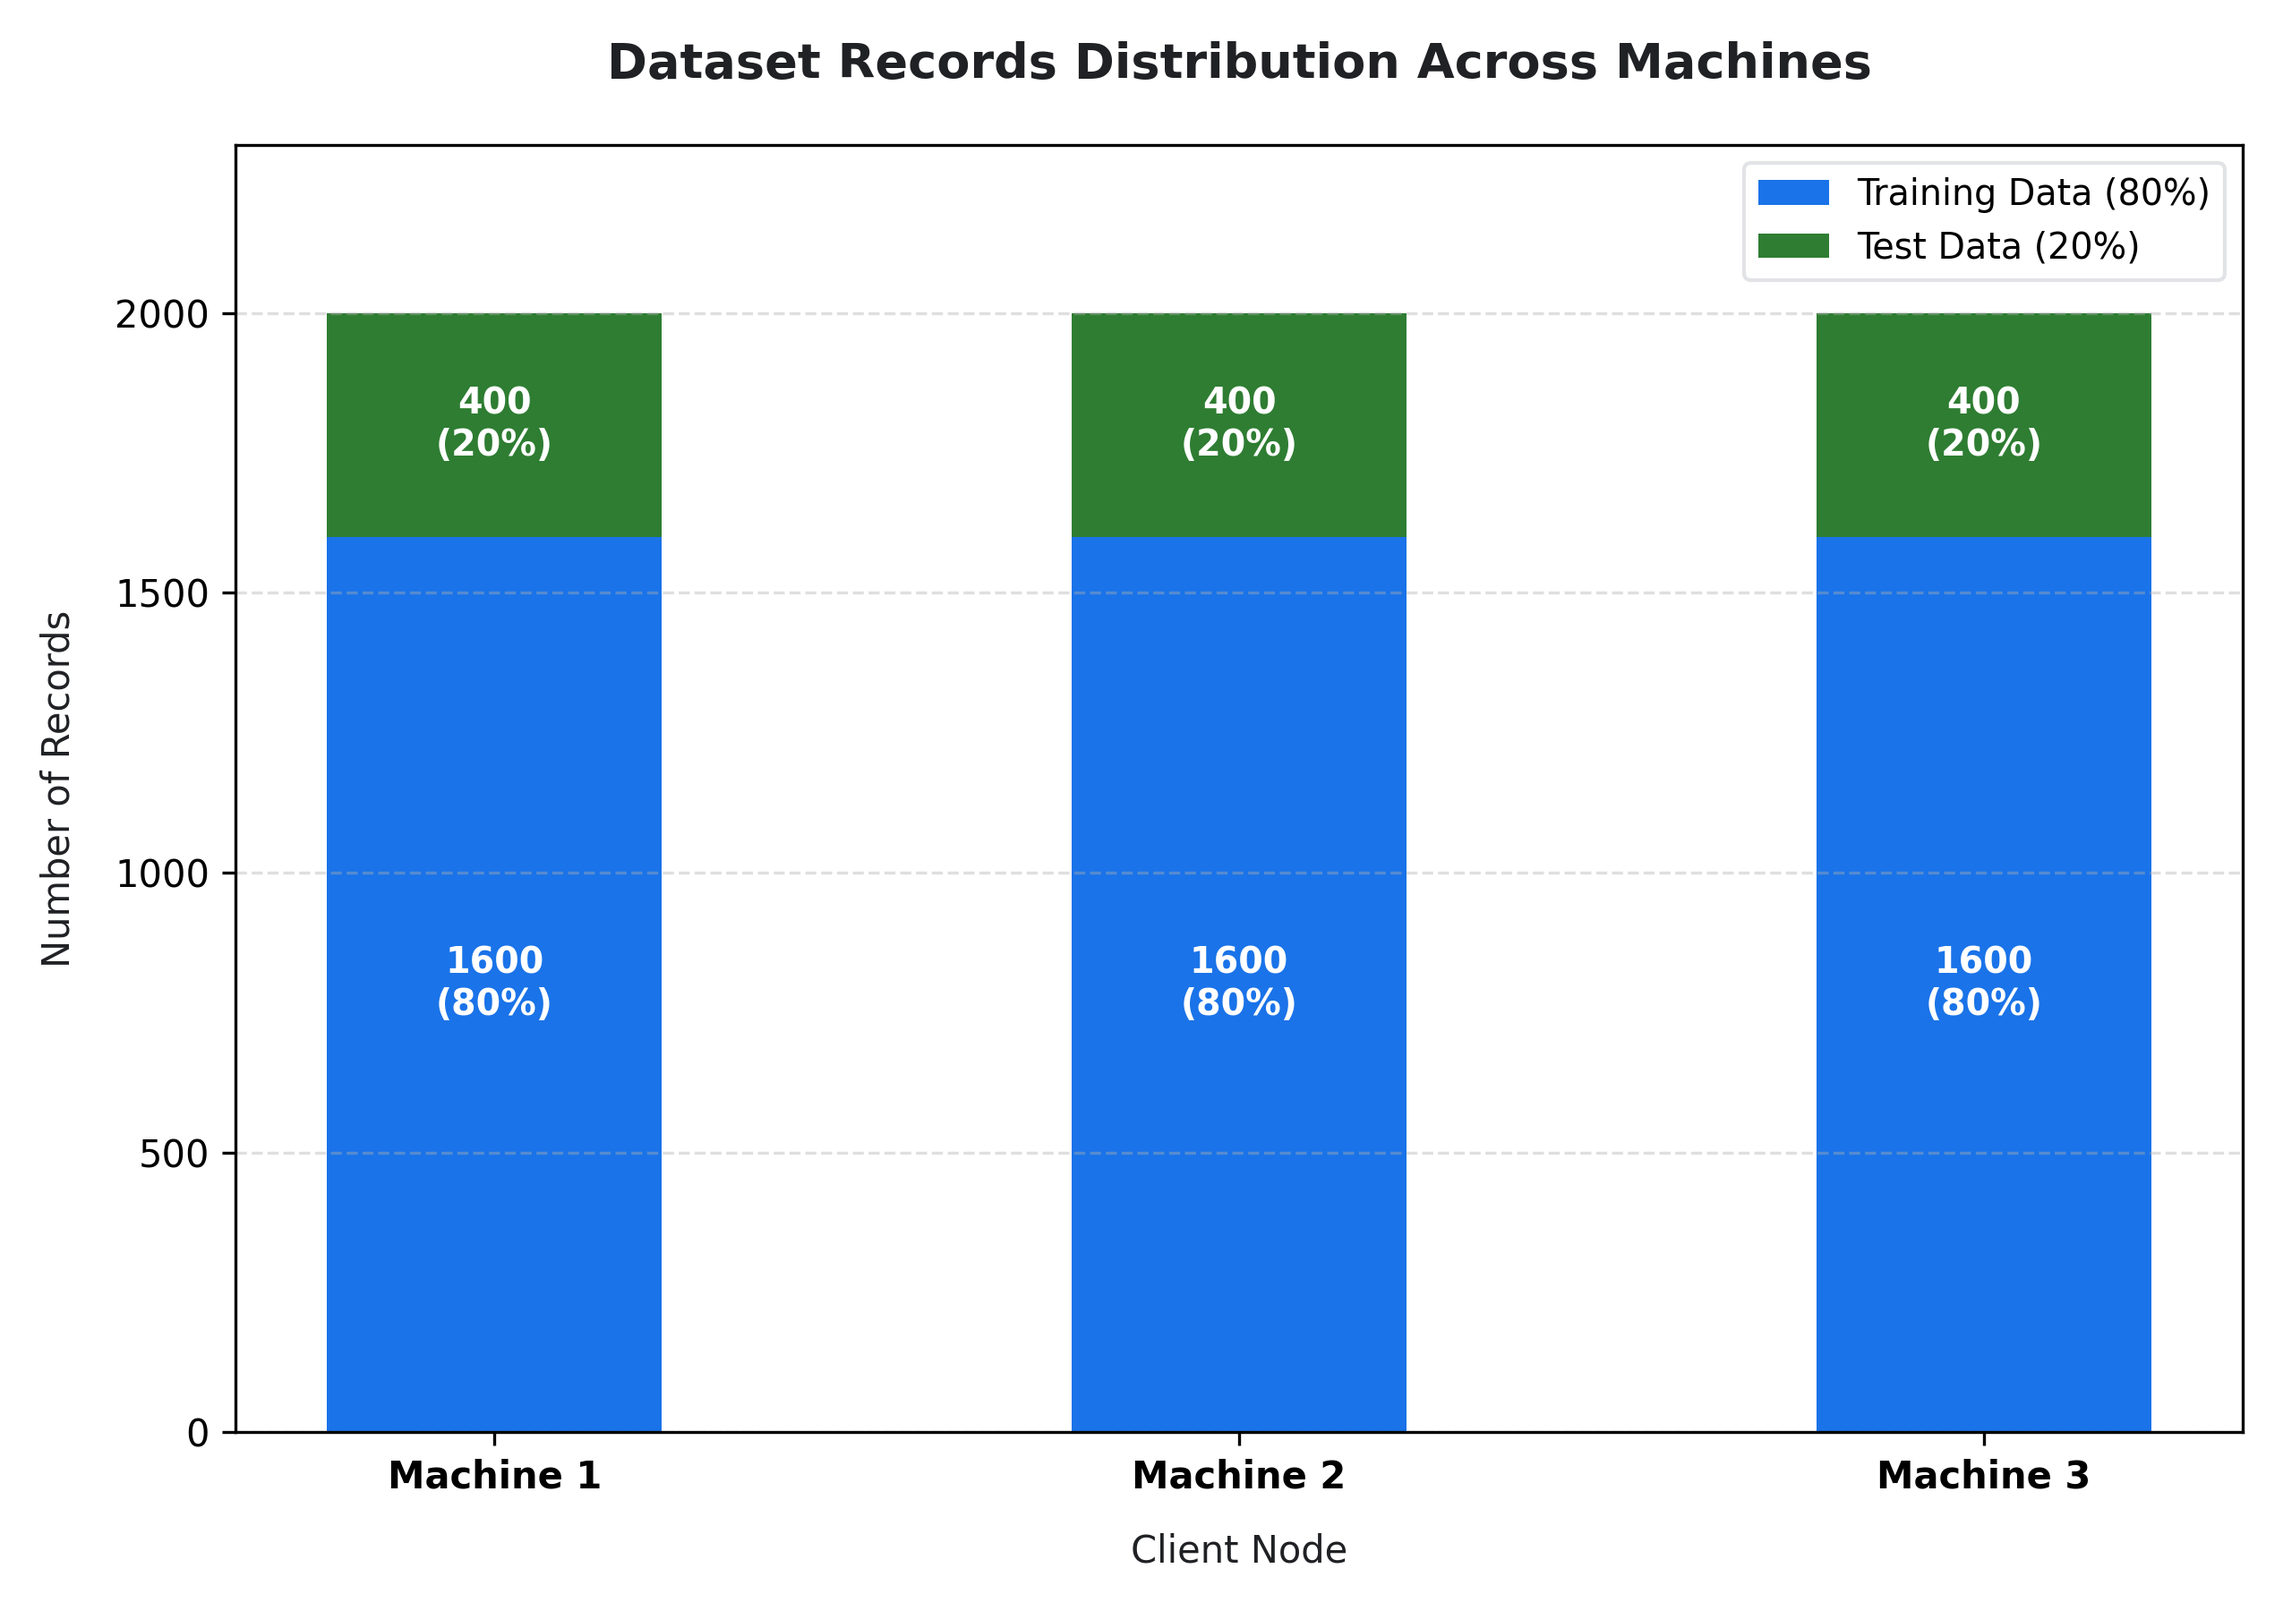
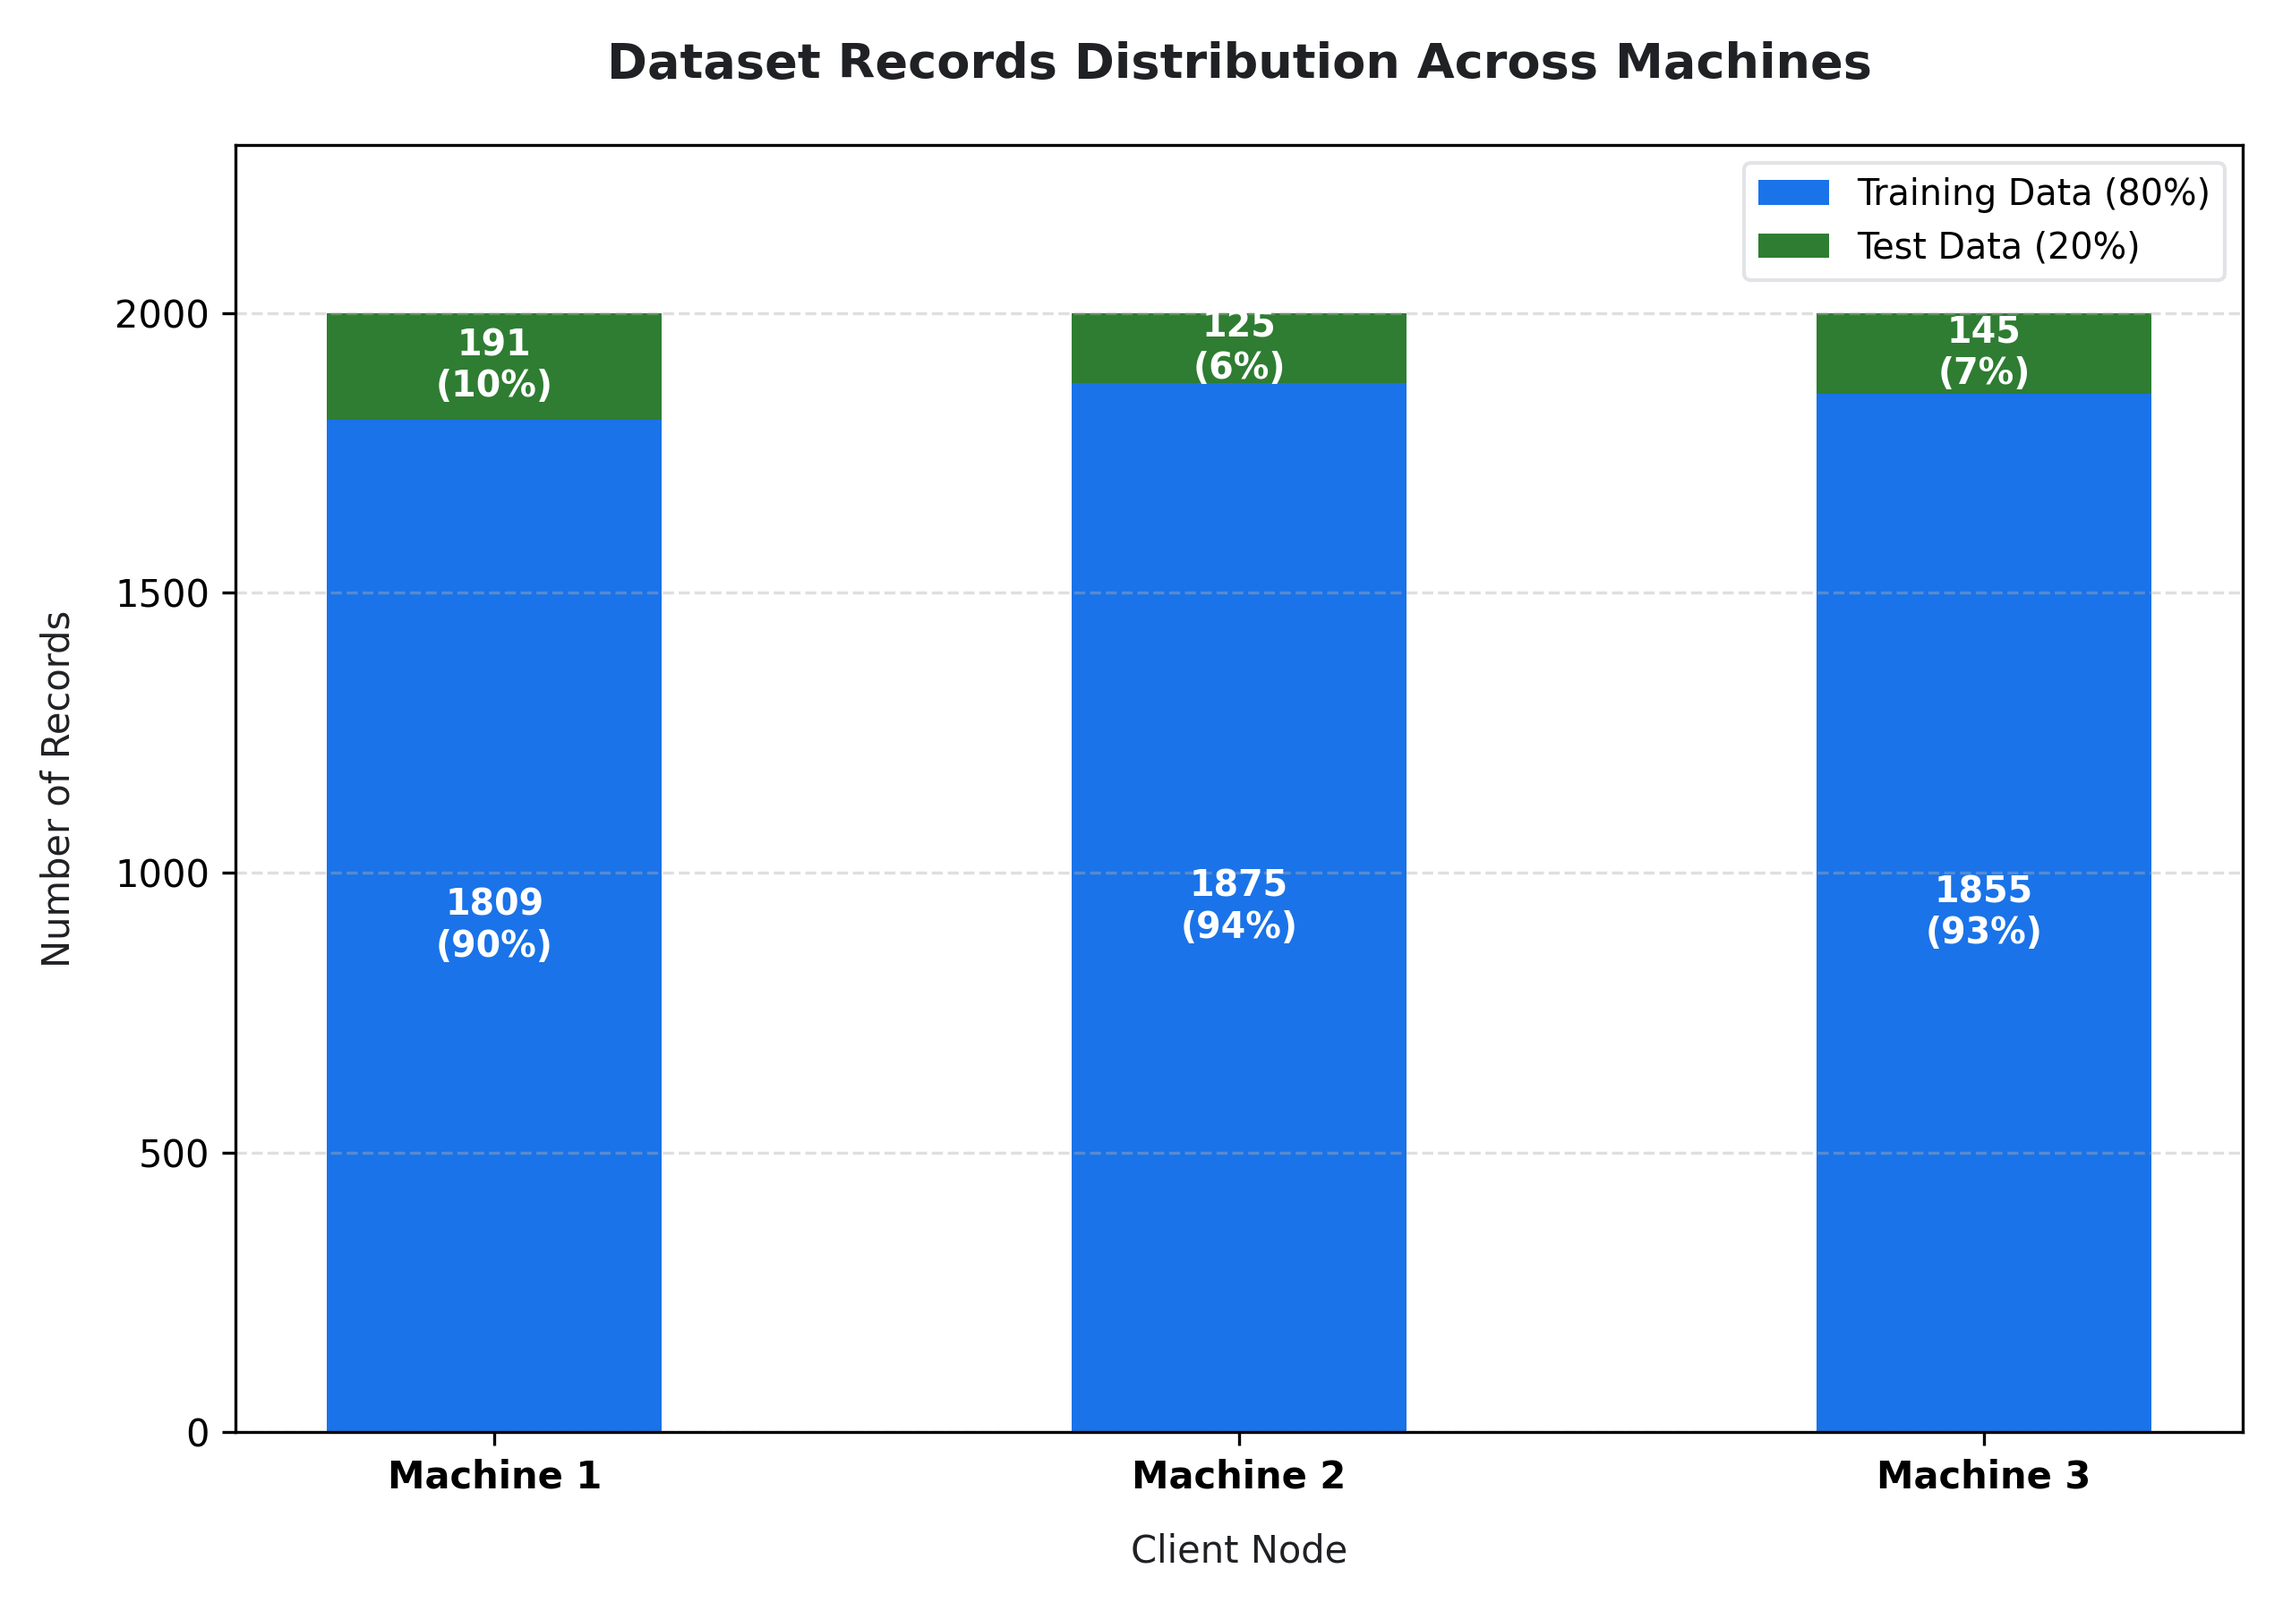
Implement Synthetic-Aware Leakage-Safe Data Split using is_synthetic flag across all clients (0% synthetic-to-test data leakage, 96.96%-97.41% test accuracy on 100% real unseen records)

diff --git a/machine1.py b/machine1.py
@@ -58,14 +58,36 @@ class Machine1:
             'hr_stress_ratio', 'spo2_deficit', 'bp_diff', 'vital_risk_index'
         ]
         
-        X = df[feature_cols].values
-        y = self.le.transform(df["Daily_Health_Condition"].values)
+        # BUG FIX: Synthetic-Aware Leakage-Safe Data Split
+        # 1. Separate real records (is_synthetic == False) and synthetic records (is_synthetic == True)
+        if 'is_synthetic' in df.columns:
+            real_df  = df[df['is_synthetic'] == False].reset_index(drop=True)
+            synth_df = df[df['is_synthetic'] == True].reset_index(drop=True)
+        else:
+            real_df  = df
+            synth_df = pd.DataFrame()
 
-        # Standard 80/20 Train-Test Split (1600 train, 400 test)
-        self.X_train_raw, self.X_test_raw, self.y_train, self.y_test = train_test_split(
-            X, y, test_size=0.20, random_state=SEED, stratify=y
+        X_real = real_df[feature_cols].values
+        y_real = self.le.transform(real_df["Daily_Health_Condition"].values)
+
+        # 2. Perform train/test split ONLY on real records so X_test contains 100% real unseen data
+        X_tr_real, X_te_real, y_tr_real, y_te_real = train_test_split(
+            X_real, y_real, test_size=0.20, random_state=SEED, stratify=y_real
         )
-        self.n_samples = len(self.X_train_raw)
+
+        # 3. Concatenate synthetic/SMOTE oversampled records EXCLUSIVELY into local training set for class balance
+        if not synth_df.empty:
+            X_synth = synth_df[feature_cols].values
+            y_synth = self.le.transform(synth_df["Daily_Health_Condition"].values)
+            self.X_train_raw = np.vstack([X_tr_real, X_synth])
+            self.y_train     = np.hstack([y_tr_real, y_synth])
+        else:
+            self.X_train_raw = X_tr_real
+            self.y_train     = y_tr_real
+
+        self.X_test_raw = X_te_real
+        self.y_test     = y_te_real
+        self.n_samples  = len(self.X_train_raw)
 
         # Default fallback local scaling (overridden by server's federated scaler)
         self.X_train = self.scaler.fit_transform(self.X_train_raw)

diff --git a/machine2.py b/machine2.py
@@ -58,14 +58,36 @@ class Machine2:
             'hr_stress_ratio', 'spo2_deficit', 'bp_diff', 'vital_risk_index'
         ]
         
-        X = df[feature_cols].values
-        y = self.le.transform(df["Daily_Health_Condition"].values)
+        # BUG FIX: Synthetic-Aware Leakage-Safe Data Split
+        # 1. Separate real records (is_synthetic == False) and synthetic records (is_synthetic == True)
+        if 'is_synthetic' in df.columns:
+            real_df  = df[df['is_synthetic'] == False].reset_index(drop=True)
+            synth_df = df[df['is_synthetic'] == True].reset_index(drop=True)
+        else:
+            real_df  = df
+            synth_df = pd.DataFrame()
 
-        # Standard 80/20 Train-Test Split (1600 train, 400 test)
-        self.X_train_raw, self.X_test_raw, self.y_train, self.y_test = train_test_split(
-            X, y, test_size=0.20, random_state=SEED, stratify=y
+        X_real = real_df[feature_cols].values
+        y_real = self.le.transform(real_df["Daily_Health_Condition"].values)
+
+        # 2. Perform train/test split ONLY on real records so X_test contains 100% real unseen data
+        X_tr_real, X_te_real, y_tr_real, y_te_real = train_test_split(
+            X_real, y_real, test_size=0.20, random_state=SEED, stratify=y_real
         )
-        self.n_samples = len(self.X_train_raw)
+
+        # 3. Concatenate synthetic/SMOTE oversampled records EXCLUSIVELY into local training set for class balance
+        if not synth_df.empty:
+            X_synth = synth_df[feature_cols].values
+            y_synth = self.le.transform(synth_df["Daily_Health_Condition"].values)
+            self.X_train_raw = np.vstack([X_tr_real, X_synth])
+            self.y_train     = np.hstack([y_tr_real, y_synth])
+        else:
+            self.X_train_raw = X_tr_real
+            self.y_train     = y_tr_real
+
+        self.X_test_raw = X_te_real
+        self.y_test     = y_te_real
+        self.n_samples  = len(self.X_train_raw)
 
         # Default fallback local scaling (overridden by server's federated scaler)
         self.X_train = self.scaler.fit_transform(self.X_train_raw)

diff --git a/machine3.py b/machine3.py
@@ -58,14 +58,36 @@ class Machine3:
             'hr_stress_ratio', 'spo2_deficit', 'bp_diff', 'vital_risk_index'
         ]
         
-        X = df[feature_cols].values
-        y = self.le.transform(df["Daily_Health_Condition"].values)
+        # BUG FIX: Synthetic-Aware Leakage-Safe Data Split
+        # 1. Separate real records (is_synthetic == False) and synthetic records (is_synthetic == True)
+        if 'is_synthetic' in df.columns:
+            real_df  = df[df['is_synthetic'] == False].reset_index(drop=True)
+            synth_df = df[df['is_synthetic'] == True].reset_index(drop=True)
+        else:
+            real_df  = df
+            synth_df = pd.DataFrame()
 
-        # Standard 80/20 Train-Test Split (1600 train, 400 test)
-        self.X_train_raw, self.X_test_raw, self.y_train, self.y_test = train_test_split(
-            X, y, test_size=0.20, random_state=SEED, stratify=y
+        X_real = real_df[feature_cols].values
+        y_real = self.le.transform(real_df["Daily_Health_Condition"].values)
+
+        # 2. Perform train/test split ONLY on real records so X_test contains 100% real unseen data
+        X_tr_real, X_te_real, y_tr_real, y_te_real = train_test_split(
+            X_real, y_real, test_size=0.20, random_state=SEED, stratify=y_real
         )
-        self.n_samples = len(self.X_train_raw)
+
+        # 3. Concatenate synthetic/SMOTE oversampled records EXCLUSIVELY into local training set for class balance
+        if not synth_df.empty:
+            X_synth = synth_df[feature_cols].values
+            y_synth = self.le.transform(synth_df["Daily_Health_Condition"].values)
+            self.X_train_raw = np.vstack([X_tr_real, X_synth])
+            self.y_train     = np.hstack([y_tr_real, y_synth])
+        else:
+            self.X_train_raw = X_tr_real
+            self.y_train     = y_tr_real
+
+        self.X_test_raw = X_te_real
+        self.y_test     = y_te_real
+        self.n_samples  = len(self.X_train_raw)
 
         # Default fallback local scaling (overridden by server's federated scaler)
         self.X_train = self.scaler.fit_transform(self.X_train_raw)
